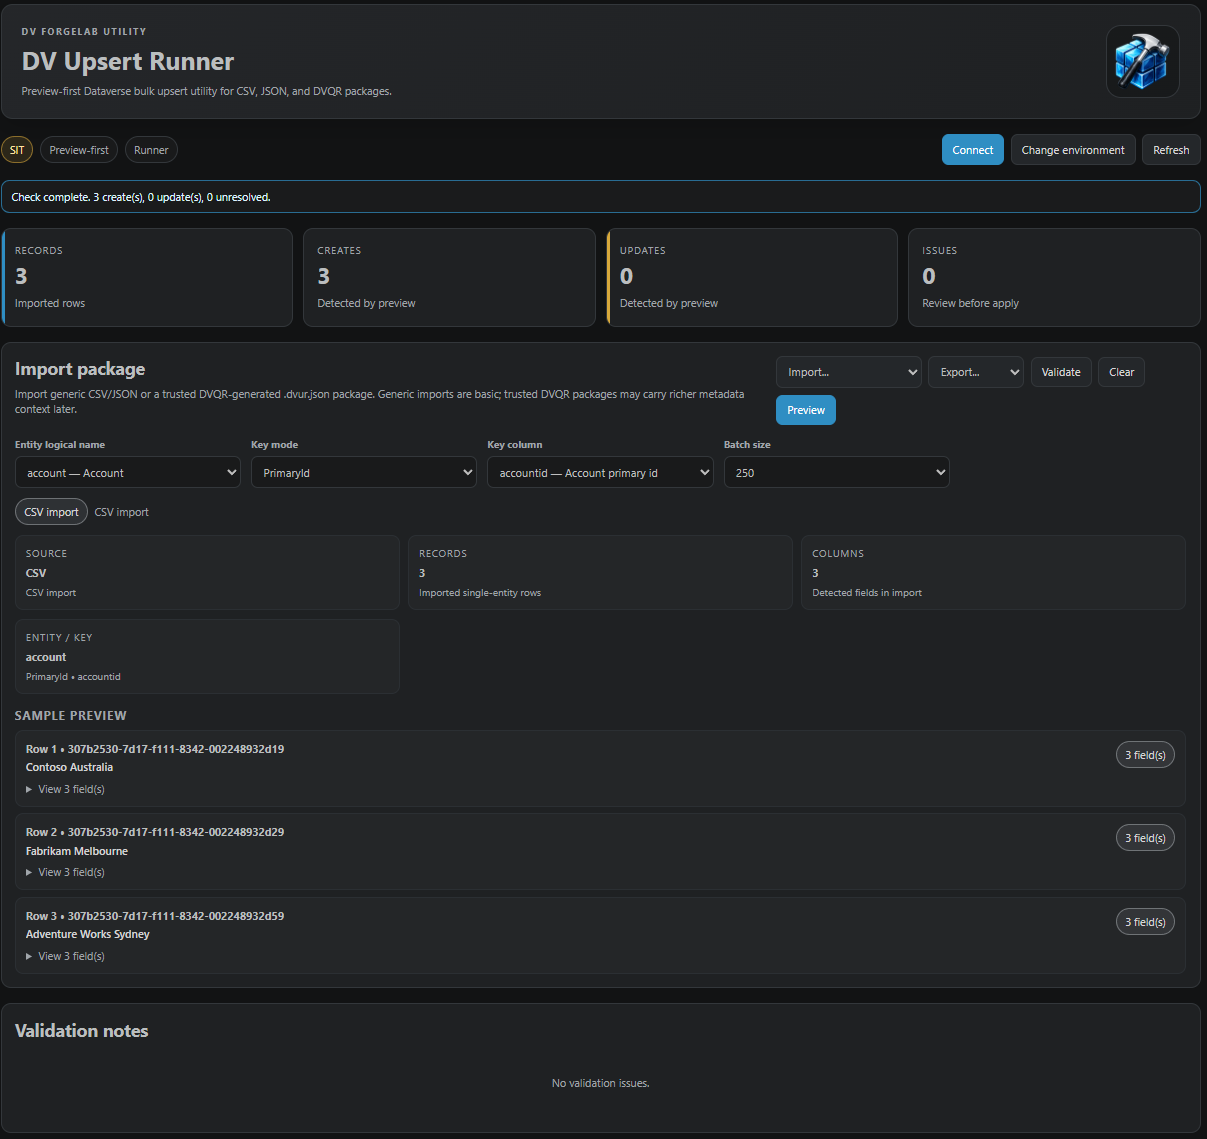
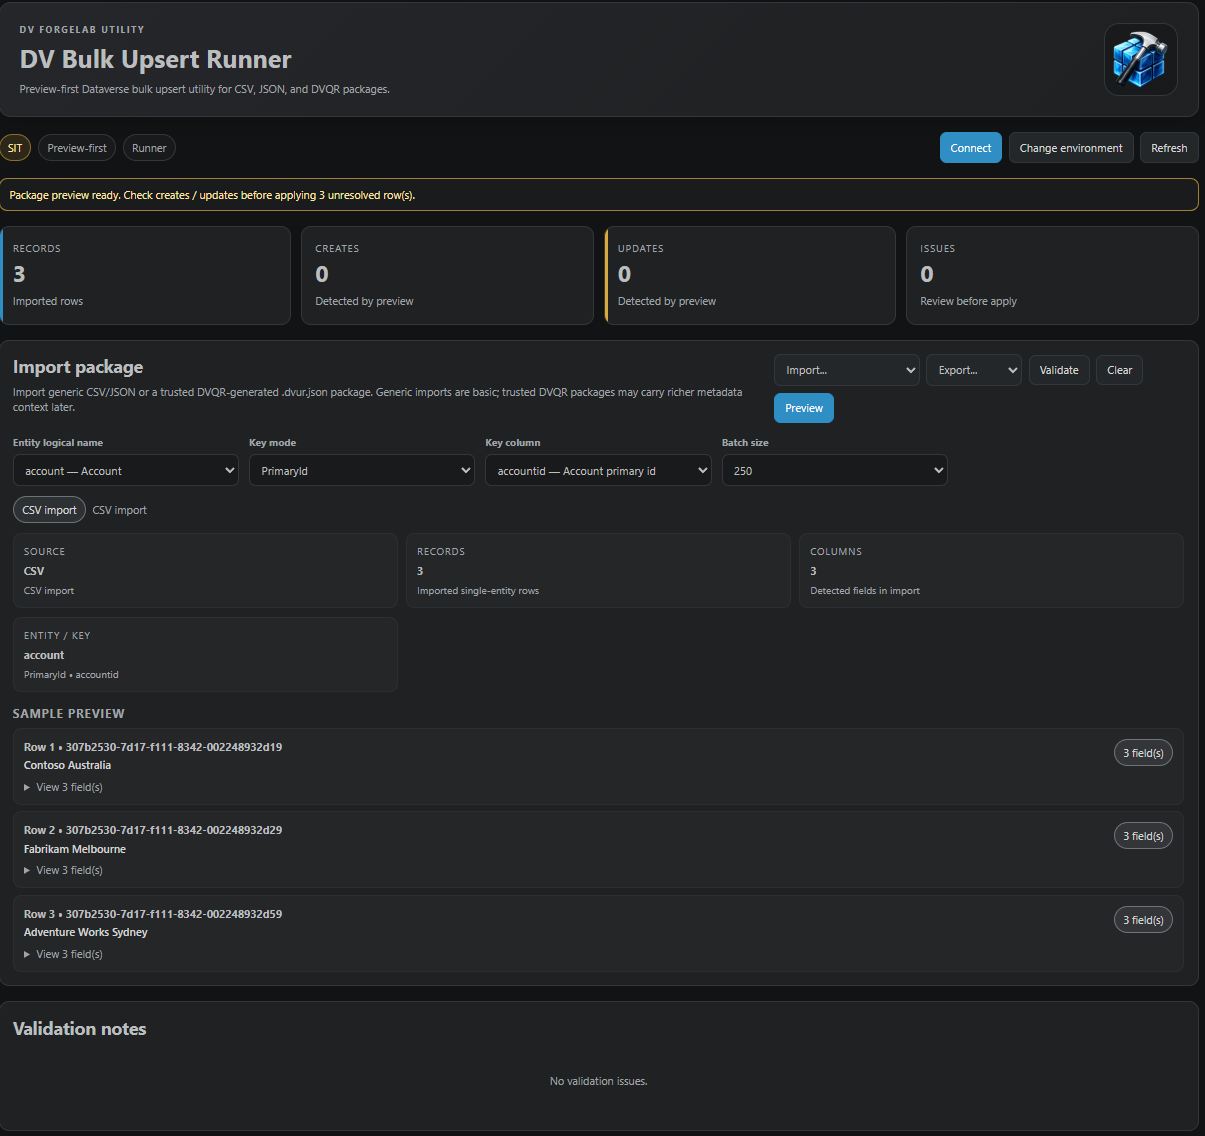
added DV Upsert Runner code

diff --git a/src/commands/openAttributeFactoryCommand.ts b/src/commands/openAttributeFactoryCommand.ts
@@ -8,8 +8,8 @@ import { validateDrafts } from '../product/attributeFactoryValidation';
 import { buildAttributeFactoryViewModel } from '../product/attributeFactoryViewModelBuilder';
 import { renderAttributeFactoryHtml } from '../webview/renderAttributeFactoryHtml';
 
-const panelTitle = 'DV Upsert Runner';
-const commandName = 'DV Upsert Runner';
+const panelTitle = 'DV Bulk Upsert Runner';
+const commandName = 'DV Bulk Upsert Runner';
 
 type WebviewMessage = { command?: string; payload?: Record<string, unknown> };
 

diff --git a/src/webview/renderAttributeFactoryHtml.ts b/src/webview/renderAttributeFactoryHtml.ts
@@ -404,7 +404,7 @@ export function renderAttributeFactoryHtml(viewModel: AttributeFactoryViewModel,
 		</section>
 		<section class="dv-card dv-section"><h2>Validation notes</h2><div class="dv-list">${renderValidation(viewModel)}</div></section>
 		${renderPreview(viewModel)}${renderProgress(viewModel)}${renderResults(viewModel)}
-		<section class="dv-card dv-section"><h2>Boundary</h2><p>Runner, not migration platform. DV Upsert Runner applies single-entity data rows through a preview-first workflow. It does not perform ETL, scheduled sync, relationship graph migration, attachment migration, or automatic data cleansing.</p></section>
-		<footer class="dv-footer-note">DV Upsert Runner is part of the <a href="https://www.dvforgelab.com">DV ForgeLab</a> Dataverse tooling ecosystem. <a href="https://www.dvquickrun.com">DV Quick Run</a> is the flagship Dataverse investigation workbench.</footer>
+		<section class="dv-card dv-section"><h2>Boundary</h2><p>Runner, not migration platform. DV Bulk Upsert Runner applies single-entity data rows through a preview-first workflow. It does not perform ETL, scheduled sync, relationship graph migration, attachment migration, or automatic data cleansing.</p></section>
+		<footer class="dv-footer-note">DV Bulk Upsert Runner is part of the <a href="https://www.dvforgelab.com">DV ForgeLab</a> Dataverse tooling ecosystem. <a href="https://www.dvquickrun.com">DV Quick Run</a> is the flagship Dataverse investigation workbench.</footer>
 	</div><script>${attributeFactoryScript}</script></body></html>`;
 }

diff --git a/src/dataverse/dataverseConnection.ts b/src/dataverse/dataverseConnection.ts
@@ -180,7 +180,7 @@ export async function getDataverseConnection(
 	const accessToken = await vscode.window.withProgress(
 		{
 			location: vscode.ProgressLocation.Notification,
-			title: `DV Upsert Runner: Connecting to ${profile.name}`,
+			title: `DV Bulk Upsert Runner: Connecting to ${profile.name}`,
 			cancellable: false
 		},
 		() => getAzureCliAccessToken(scope, profile.tenantId)

diff --git a/src/product/attributeFactoryViewModelBuilder.ts b/src/product/attributeFactoryViewModelBuilder.ts
@@ -23,7 +23,7 @@ export function buildAttributeFactoryViewModel(state: AttributeFactoryState): At
 	const batchSize = state.draft.batchSize > 0 ? state.draft.batchSize : 250;
 
 	return {
-		productName: 'DV Upsert Runner',
+		productName: 'DV Bulk Upsert Runner',
 		subtitle: 'Preview-first Dataverse bulk upsert utility for CSV, JSON, and DVQR packages.',
 		environment: { ...state.environment, ...environmentSafety },
 		entities: state.entities,

diff --git a/CHANGELOG.md b/CHANGELOG.md
@@ -1,145 +1,65 @@
 # Changelog
 
-## 1.0.0
+## 1.0.0 — Preview-First Bulk Upsert Runner
 
-- Added failure severity badges and grouped failure summary chips.
-- Humanised Dataverse failure messages while keeping technical details available.
-- Marked DV Upsert Runner as the v1.0.0 ship candidate.
-
-## 0.1.11
-
-- Added more actionable failure diagnostics with expected values and suggested actions.
-- Inferred failed columns for type conversion errors where row payload and metadata allow it.
-- Kept raw Dataverse technical details available behind expandable sections.
-
-## 0.1.10
-
-- Added normalized failure categories for Dataverse execution errors.
-- Condensed failure group summaries for type conversion and Dataverse payload errors.
-- Collapsed raw technical details behind expandable sections.
-- Improved failed row detail cards for export/requeue workflows.
-
-# Change Log
-
-## 0.1.9
-
-- Fixed source state before import.
-- Disabled Preview until import/entity/key details are ready.
-- Added live create/update/unresolved counters during classification.
-- Improved throughput wording and completion summary.
-
-# Changelog
-
-## 0.1.8 - Cancellation Resume & State Preservation
-
-- Preserved resolved Create/Update preview state while applying rows.
-- Added skipped-row collection when cancellation stops after the current batch.
-- Added Export skipped rows and Requeue skipped rows actions.
-- Requeued skipped rows require Preview and Check Creates / Updates before applying.
-
-## 0.1.7
-
-- Split fast local package preview from Dataverse create/update checking.
-- Added explicit Check Creates / Updates action with progress, elapsed time, throughput and ETA.
-- Disabled Apply until all rows are resolved as Create or Update.
-- Kept Apply confirmation immediate and before backend work.
-
-## 0.1.6
-
-- Added operational progress transparency for Preview and Apply.
-- Added live elapsed time, throughput, and ETA while rows are being processed.
-- Apply confirmation now appears before any backend execution work.
-- Added safe "Cancel after current batch" handling for bulk runs.
-- Final execution summaries now preserve elapsed time, throughput, batch counts, and skipped rows after cancellation.
-
-## 0.1.5
-
-- Added compact row previews with expandable field details for wide imports.
-- Reduced normal preview density while preserving full payload inspection on demand.
-- Persisted elapsed time and average throughput in execution results.
-- Improved grouped validation messages with affected-row examples.
-
-
-## 0.1.4
-
-- Reduced normal sample and preview row rendering to 5 rows for bulk readability.
-- Added elapsed-time display for apply progress and completion summary.
-- Summarised successful bulk row results by default.
-- Kept detailed row rendering focused on failures with scrollable failure lists.
-- Added horizontal overflow handling for wide-row previews with many fields.
-
-# Change Log
-
-## [0.1.3] - Bulk upsert readiness
+Initial public release.
 
 ### Added
 
-- Metadata-backed column validation before preview/apply.
-- Unknown-column detection, including custom primary-name column mistakes such as `name` vs publisher-prefixed logical names.
-- Read-only column detection for non-create/non-update payload fields.
-- Additional DVUR test-table samples for create, update, trusted package, and 1000-row bulk testing.
+* CSV import support
+* JSON import support
+* `.dvur.json` package support
+* Single-entity Dataverse bulk upsert workflow
+* Primary ID upsert support
+* Alternate-key upsert support
+* Metadata-backed entity and column validation
+* Read-only column detection
+* Create / Update classification before execution
+* Preview-first execution workflow
+* Batch execution planning and progress tracking
+* Elapsed time, throughput, and ETA reporting
+* Cancellation after current batch
+* Failure grouping and failure review experience
+* Human-readable Dataverse error summaries
+* Technical detail expansion for advanced troubleshooting
+* Failure export support
+* Failure requeue support
+* Shared DV ForgeLab environment settings
+* Environment-aware execution indicators
 
-### Changed
+### Workflow
 
-- Import summary now separates record count and column count for clearer bulk-import review.
-- Preview rows now include field values in the data operation preview, not only key values.
+```text
+Connect
+↓
+Import CSV / JSON / DVUR Package
+↓
+Validate
+↓
+Preview
+↓
+Check Creates / Updates
+↓
+Apply Upserts
+↓
+Review Results
+↓
+Export / Requeue Failures
+```
 
-## [0.1.2] - Import and execution maturity
+### Boundary
 
-### Changed
+DV Bulk Upsert Runner is a preview-first data application utility.
 
-- CSV import now treats the first row as the header row and imports remaining rows as data.
-- Sample preview now shows actual row field values instead of only column names.
-- Entity selection now uses a themed dropdown when Dataverse metadata is loaded.
-- Batch size is now a controlled dropdown: 100, 250, 500, or 1000.
-- Preview now shows an execution plan with batch count and batch size.
+It supports staged single-entity Dataverse upserts and execution review.
 
-### Added
+It is not:
 
-- Import summary showing source, row count, column count, entity, key mode, and key column.
-- Grouped validation notes to avoid noisy repeated row-level errors.
-- Apply progress surface for processed rows, batches, applied rows, and failed rows.
-- Execution failure grouping.
-- Export failed rows to a DVUR package.
-- Requeue failed rows for another preview/apply cycle.
+* an ETL platform
+* a migration platform
+* a synchronisation engine
+* a relationship migration tool
+* an attachment migration tool
+* an automatic data cleansing solution
 
-## [0.1.1] - Launch and preview polish
-
-### Changed
-
-- DVUR no longer connects automatically on launch.
-- Validation notes now remain empty until a CSV, JSON, or DVUR package is imported.
-- Added a 10-row sample preview after import.
-- Refresh now reloads Dataverse metadata when connected.
-- Added sample CSV and DVUR JSON files for quick testing.
-
-
-All notable changes to the "DV Upsert Runner" extension will be documented in this file.
-
-## [0.1.0] - Initial DVUR scaffold
-
-### Added
-
-- DV Upsert Runner VS Code command and branded DV ForgeLab webview.
-- Shared DV ForgeLab environment connection support.
-- CSV import for flat upsert rows.
-- JSON import for flat rows and package-style payloads.
-- `.dvur.json` package export support.
-- Trusted DVQR package detection semantics.
-- Single-entity upsert staging model.
-- Primary ID and alternate-key key mode selection.
-- Preview-first validation workflow.
-- Create/update detection during preview where possible.
-- Explicit apply workflow for Dataverse upserts.
-- Execution results for applied and failed rows.
-- Environment-aware safety indicators.
-- Boundary messaging for runner-not-migration-platform scope.
-
-### Boundaries
-
-- Single entity only.
-- No ETL.
-- No scheduled sync.
-- No relationship graph migration.
-- No attachment/file migration.
-- No automatic data cleansing or transformation engine.
+Built by DV ForgeLab.

diff --git a/README.md b/README.md
@@ -1,12 +1,12 @@
-# DV Upsert Runner
+# DV Bulk Upsert Runner
 
 Preview-first Dataverse bulk upsert utility inside VS Code.
 
-**DV Upsert Runner** is a focused DV ForgeLab utility for importing CSV, JSON, or `.dvur.json` packages, validating them, previewing single-entity upsert operations, applying them deliberately, and reviewing execution outcomes.
+**DV Bulk Upsert Runner** is a focused DV ForgeLab utility for importing CSV, JSON, or `.dvur.json` packages, validating them, previewing single-entity upsert operations, applying them deliberately, and reviewing execution outcomes.
 
 It is intentionally about **data application**, not migration.
 
-DV Upsert Runner applies staged single-entity data rows. It does not perform ETL, scheduled sync, relationship graph migration, attachment migration, or automatic data cleansing.
+DV Bulk Upsert Runner applies staged single-entity data rows. It does not perform ETL, scheduled sync, relationship graph migration, attachment migration, or automatic data cleansing.
 
 ---
 
@@ -145,7 +145,7 @@ Failures can be exported or requeued for later correction and replay.
 
 ## Boundary
 
-DV Upsert Runner is intentionally a runner, not a migration platform.
+DV Bulk Upsert Runner is intentionally a runner, not a migration platform.
 
 It does not:
 
@@ -178,14 +178,14 @@ It does not:
 ## Command
 
 ```text
-DV Upsert Runner: Open Upsert Runner
+DV Bulk Upsert Runner: Open Upsert Runner
 ```
 
 ---
 
 ## Philosophy
 
-DV Upsert Runner follows the DV ForgeLab preview-first invariant.
+DV Bulk Upsert Runner follows the DV ForgeLab preview-first invariant.
 
 Rows are imported locally, validated, previewed, classified, and explicitly applied by the user.
 
@@ -195,11 +195,11 @@ Dataverse data is never changed without an explicit review and apply step.
 
 ## Part of the DV ForgeLab Family
 
-DV Upsert Runner is a focused Dataverse utility from DV ForgeLab.
+DV Bulk Upsert Runner is a focused Dataverse utility from DV ForgeLab.
 
 For operational investigation, execution, runtime analysis, and cross-environment comparison, see [DV Quick Run](https://www.dvquickrun.com).
 
-DV Upsert Runner follows the same principles:
+DV Bulk Upsert Runner follows the same principles:
 
 * Preview-first
 * Environment-aware